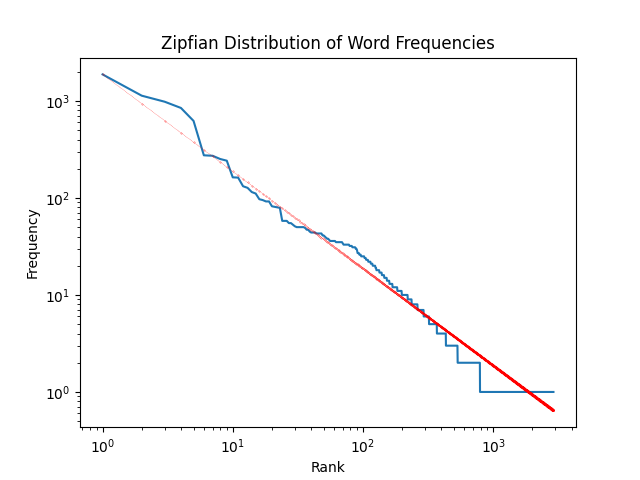
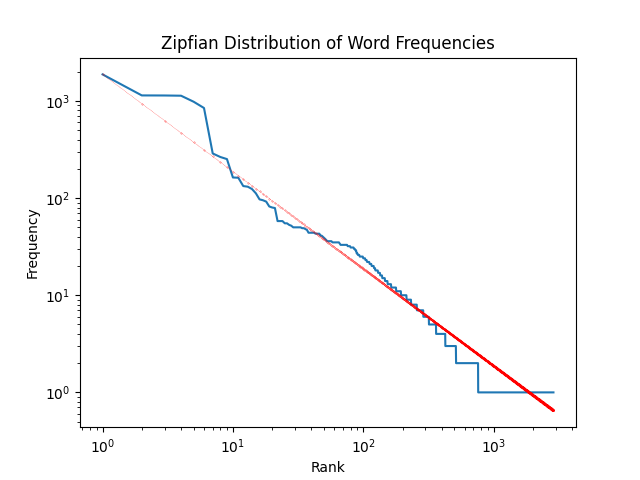
Use word_tokenize instead

diff --git a/calculate_dataset_statistics.py b/calculate_dataset_statistics.py
@@ -1,10 +1,10 @@
 from collections import Counter
 
-import numpy
 import pandas as pd
 import seaborn as sns
 from matplotlib import pyplot as plt
-from nltk.tokenize import wordpunct_tokenize
+from nltk.tokenize import word_tokenize
+
 
 def main():
 
@@ -49,7 +49,7 @@ def main():
 
     # Vocab distribution in datasets
     thunderbird_vocab = Counter()
-    thunderbird_df['ComponentEventTemplate'].str.lower().apply(wordpunct_tokenize).apply(thunderbird_vocab.update)
+    thunderbird_df['ComponentEventTemplate'].str.lower().apply(word_tokenize).apply(thunderbird_vocab.update)
     #print(pd.DataFrame.from_dict(thunderbird_vocab, orient='index').reset_index())
 
     sorted_word_counts = thunderbird_vocab.most_common()
@@ -87,7 +87,7 @@ def main():
     # plt.savefig("datasets_vocab_histogram_thunderbird.png")
 
     bgl_vocab = Counter()
-    bgl_df['ComponentEventTemplate'].str.lower().apply(wordpunct_tokenize).apply(bgl_vocab.update)
+    bgl_df['ComponentEventTemplate'].str.lower().apply(word_tokenize).apply(bgl_vocab.update)
     # plt.figure()
     # sns.histplot(data=pd.DataFrame.from_dict(bgl_vocab, orient='index').reset_index())
     # plt.savefig("datasets_vocab_histogram_bgl.png")
